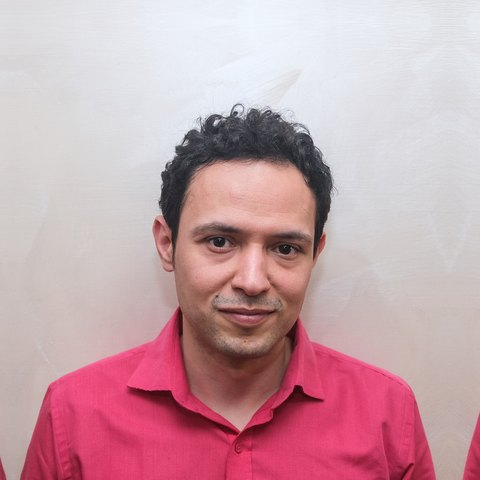
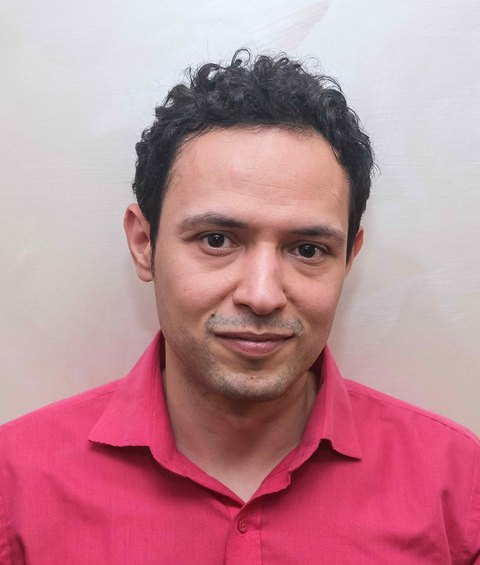
resize large photo

diff --git a/index.html b/index.html
@@ -46,7 +46,7 @@
 <p>Besides the algorithms and their theoretical properties, the results are applied in the automotive and aerospace industries, energy, process control and financial engineering.</p>
 <p>DYSCO is part of the research area in Computer Science and Engineering at the <a href="https://www.imtlucca.it" target="_blank" rel="noopener noreferrer">IMT School for Advanced Studies Lucca</a>, Italy. DYSCO is in charge of the Learning and Control PhD track of IMT Lucca. Its members work together in COLLab, the experimental laboratory of the unit.</p></div></section>
 </div></section>
-<section class="page-section" id="people"><div class="wrap"><header class="page-head center"><h2>People</h2><p class="jump"><a href="#faculty">Faculty</a> | <a href="#postdocs">Postdocs</a> | <a href="#phd-students">PhD Students</a></p></header><section class="section" id="faculty"><h2 class="center">Faculty</h2><div class="grid people"><article class="person"><div class="photo"><img src="content/people/photos/alberto-bemporad.jpg" alt="Alberto Bemporad" loading="lazy"></div><p class="role">Professor</p><h3>Alberto Bemporad</h3><p class="pills"><a href="https://scholar.google.com/citations?user=XC3nc68AAAAJ" target="_blank" rel="noopener noreferrer" aria-label="Google Scholar of Alberto Bemporad">Google Scholar</a><a href="http://cse.lab.imtlucca.it/~bemporad" target="_blank" rel="noopener noreferrer" aria-label="Personal webpage of Alberto Bemporad">Personal webpage</a></p></article><article class="person"><div class="photo"><img src="content/people/photos/mario-zanon.jpg" alt="Mario Zanon" loading="lazy"></div><p class="role">Professor</p><h3>Mario Zanon</h3><p class="pills"><a href="https://scholar.google.com/citations?user=3w6W6l0AAAAJ" target="_blank" rel="noopener noreferrer" aria-label="Google Scholar of Mario Zanon">Google Scholar</a><a href="https://mariozanon.wordpress.com/" target="_blank" rel="noopener noreferrer" aria-label="Personal webpage of Mario Zanon">Personal webpage</a></p></article><article class="person"><div class="photo"><img src="content/people/photos/mario-eduardo-villanueva.jpg" alt="Mario E. Villanueva" loading="lazy"></div><p class="role">Associate Professor</p><h3>Mario E. Villanueva</h3><p class="pills"><a href="https://scholar.google.com/citations?user=Avxhwo4AAAAJ" target="_blank" rel="noopener noreferrer" aria-label="Google Scholar of Mario E. Villanueva">Google Scholar</a><a href="https://www.imtlucca.it/marioeduardo.villanueva" target="_blank" rel="noopener noreferrer" aria-label="Personal webpage of Mario E. Villanueva">Personal webpage</a></p></article><article class="person"><div class="photo"><img src="content/people/photos/filippo-fabiani.jpg" alt="Filippo Fabiani" loading="lazy"></div><p class="role">Associate Professor</p><h3>Filippo Fabiani</h3><p class="pills"><a href="https://scholar.google.com/citations?user=eXdKzcUAAAAJ" target="_blank" rel="noopener noreferrer" aria-label="Google Scholar of Filippo Fabiani">Google Scholar</a><a href="https://ffabiani.github.io/" target="_blank" rel="noopener noreferrer" aria-label="Personal webpage of Filippo Fabiani">Personal webpage</a></p></article><article class="person"><div class="photo"><img src="content/people/photos/puya-latafat.jpg" alt="Puya Latafat" loading="lazy"></div><p class="role">Assistant Professor</p><h3>Puya Latafat</h3><p class="pills"><a href="https://scholar.google.com/citations?user=TaTK05QAAAAJ" target="_blank" rel="noopener noreferrer" aria-label="Google Scholar of Puya Latafat">Google Scholar</a><a href="https://pylat.github.io/" target="_blank" rel="noopener noreferrer" aria-label="Personal webpage of Puya Latafat">Personal webpage</a></p></article></div></section><section class="section" id="postdocs"><h2 class="center">Postdocs</h2><ul class="name-list"><li><a href="https://adeyemiadeoye.github.io/" target="_blank" rel="noopener noreferrer">Adeyemi Adeoye</a></li><li>Sampath Kumar Mulagaleti</li><li>Renzi Wang</li></ul></section><section class="section" id="phd-students"><h2 class="center">PhD Students</h2><ul class="name-list"><li>Shokhjakhon Abdufattokhov</li><li>Filippo Badalamenti</li><li>Chiara Cavalagli</li><li>Emmanouil Dimou</li><li>Matteo Facchino</li><li>Yuxuan Guo</li><li>Hasna El Hasnaouy</li><li><a href="https://korbit.is/" target="_blank" rel="noopener noreferrer">Mikalai Korbit</a></li><li>Stefano Menchetti</li><li><a href="https://francescopillitteri.github.io/" target="_blank" rel="noopener noreferrer">Francesco Pillitteri</a></li><li>Hamid Salekinia</li><li>Saugat Shahi</li><li>Haoming Shen</li><li>Kui Xie</li><li>Chenrui Zhang</li></ul></section></div></section>
+<section class="page-section" id="people"><div class="wrap"><header class="page-head center"><h2>People</h2><p class="jump"><a href="#faculty">Faculty</a> | <a href="#postdocs">Postdocs</a> | <a href="#phd-students">PhD Students</a></p></header><section class="section" id="faculty"><h2 class="center">Faculty</h2><div class="grid people"><article class="person"><div class="photo"><img src="content/people/photos/alberto-bemporad.jpg" alt="Alberto Bemporad" loading="lazy"></div><p class="role">Professor</p><h3><a href="http://cse.lab.imtlucca.it/~bemporad" target="_blank" rel="noopener noreferrer">Alberto Bemporad</a></h3><p class="pills"><a href="https://scholar.google.com/citations?user=XC3nc68AAAAJ" target="_blank" rel="noopener noreferrer" aria-label="Google Scholar of Alberto Bemporad">Google Scholar</a><a href="http://cse.lab.imtlucca.it/~bemporad" target="_blank" rel="noopener noreferrer" aria-label="Personal webpage of Alberto Bemporad">Personal webpage</a></p></article><article class="person"><div class="photo"><img src="content/people/photos/mario-zanon.jpg" alt="Mario Zanon" loading="lazy"></div><p class="role">Professor</p><h3><a href="https://mariozanon.wordpress.com/" target="_blank" rel="noopener noreferrer">Mario Zanon</a></h3><p class="pills"><a href="https://scholar.google.com/citations?user=3w6W6l0AAAAJ" target="_blank" rel="noopener noreferrer" aria-label="Google Scholar of Mario Zanon">Google Scholar</a><a href="https://mariozanon.wordpress.com/" target="_blank" rel="noopener noreferrer" aria-label="Personal webpage of Mario Zanon">Personal webpage</a></p></article><article class="person"><div class="photo"><img src="content/people/photos/mario-eduardo-villanueva.jpg" alt="Mario E. Villanueva" loading="lazy"></div><p class="role">Associate Professor</p><h3><a href="https://www.imtlucca.it/marioeduardo.villanueva" target="_blank" rel="noopener noreferrer">Mario E. Villanueva</a></h3><p class="pills"><a href="https://scholar.google.com/citations?user=Avxhwo4AAAAJ" target="_blank" rel="noopener noreferrer" aria-label="Google Scholar of Mario E. Villanueva">Google Scholar</a><a href="https://www.imtlucca.it/marioeduardo.villanueva" target="_blank" rel="noopener noreferrer" aria-label="Personal webpage of Mario E. Villanueva">Personal webpage</a></p></article><article class="person"><div class="photo"><img src="content/people/photos/filippo-fabiani.jpg" alt="Filippo Fabiani" loading="lazy"></div><p class="role">Associate Professor</p><h3><a href="https://ffabiani.github.io/" target="_blank" rel="noopener noreferrer">Filippo Fabiani</a></h3><p class="pills"><a href="https://scholar.google.com/citations?user=eXdKzcUAAAAJ" target="_blank" rel="noopener noreferrer" aria-label="Google Scholar of Filippo Fabiani">Google Scholar</a><a href="https://ffabiani.github.io/" target="_blank" rel="noopener noreferrer" aria-label="Personal webpage of Filippo Fabiani">Personal webpage</a></p></article><article class="person"><div class="photo"><img src="content/people/photos/puya-latafat.jpg" alt="Puya Latafat" loading="lazy"></div><p class="role">Assistant Professor</p><h3><a href="https://pylat.github.io/" target="_blank" rel="noopener noreferrer">Puya Latafat</a></h3><p class="pills"><a href="https://scholar.google.com/citations?user=TaTK05QAAAAJ" target="_blank" rel="noopener noreferrer" aria-label="Google Scholar of Puya Latafat">Google Scholar</a><a href="https://pylat.github.io/" target="_blank" rel="noopener noreferrer" aria-label="Personal webpage of Puya Latafat">Personal webpage</a></p></article></div></section><section class="section" id="postdocs"><h2 class="center">Postdocs</h2><ul class="name-list"><li><a href="https://adeyemiadeoye.github.io/" target="_blank" rel="noopener noreferrer">Adeyemi Adeoye</a></li><li>Sampath Kumar Mulagaleti</li><li>Renzi Wang</li></ul></section><section class="section" id="phd-students"><h2 class="center">PhD Students</h2><ul class="name-list"><li>Shokhjakhon Abdufattokhov</li><li>Filippo Badalamenti</li><li>Chiara Cavalagli</li><li>Emmanouil Dimou</li><li>Matteo Facchino</li><li>Yuxuan Guo</li><li>Hasna El Hasnaouy</li><li><a href="https://korbit.is/" target="_blank" rel="noopener noreferrer">Mikalai Korbit</a></li><li>Stefano Menchetti</li><li><a href="https://francescopillitteri.github.io/" target="_blank" rel="noopener noreferrer">Francesco Pillitteri</a></li><li>Hamid Salekinia</li><li>Saugat Shahi</li><li>Haoming Shen</li><li>Kui Xie</li><li>Chenrui Zhang</li></ul></section></div></section>
 <section class="page-section" id="research"><div class="wrap">
 <header class="page-head"><h2>Research</h2></header>
 <div class="split"><section><h2>Research topics</h2><div class="stack"><article class="card"><h3>Model Predictive Control (MPC)</h3><div class="prose"><p>Model Predictive Control (MPC) is widely used in industry for real-time control of large multivariable processes. At each step, the control action is chosen by solving an optimal control problem online that minimizes a performance criterion over a future horizon, subject to constraints on process variables.</p>

diff --git a/assets/style.css b/assets/style.css
@@ -313,3 +313,7 @@ body { font-feature-settings: "kern", "liga"; }
 @media (max-width: 1000px) { .person { flex-basis: calc((100% - 2 * 16px) / 3); } }
 @media (max-width: 800px) { .person { flex-basis: calc((100% - 16px) / 2); } }
 @media (max-width: 560px) { .people { gap: 12px; } .person { flex-basis: 100%; } }
+
+/* names on faculty cards link to the personal webpage */
+.person h3 a { color: inherit; text-decoration: none; }
+.person h3 a:hover { text-decoration: underline; text-underline-offset: 3px; }

diff --git a/build.py b/build.py
@@ -153,8 +153,10 @@ def person_card(meta):
     if meta.get("email"):
         links.append(("Email", "mailto:" + meta["email"]))
     pills = "".join(f'<a href="{e(u)}"{ext(u)} aria-label="{l} of {e(name)}">{l}</a>' for l, u in links)
+    heading = (f'<h3><a href="{e(meta["website"])}"{ext(meta["website"])}>{e(name)}</a></h3>'
+               if meta.get("website") else f'<h3>{e(name)}</h3>')
     return (f'<article class="person">{img}<p class="role">{e(meta.get("role", ""))}</p>'
-            f'<h3>{e(name)}</h3><p class="pills">{pills}</p></article>')
+            + heading + f'<p class="pills">{pills}</p></article>')
 
 
 def slug(s):
